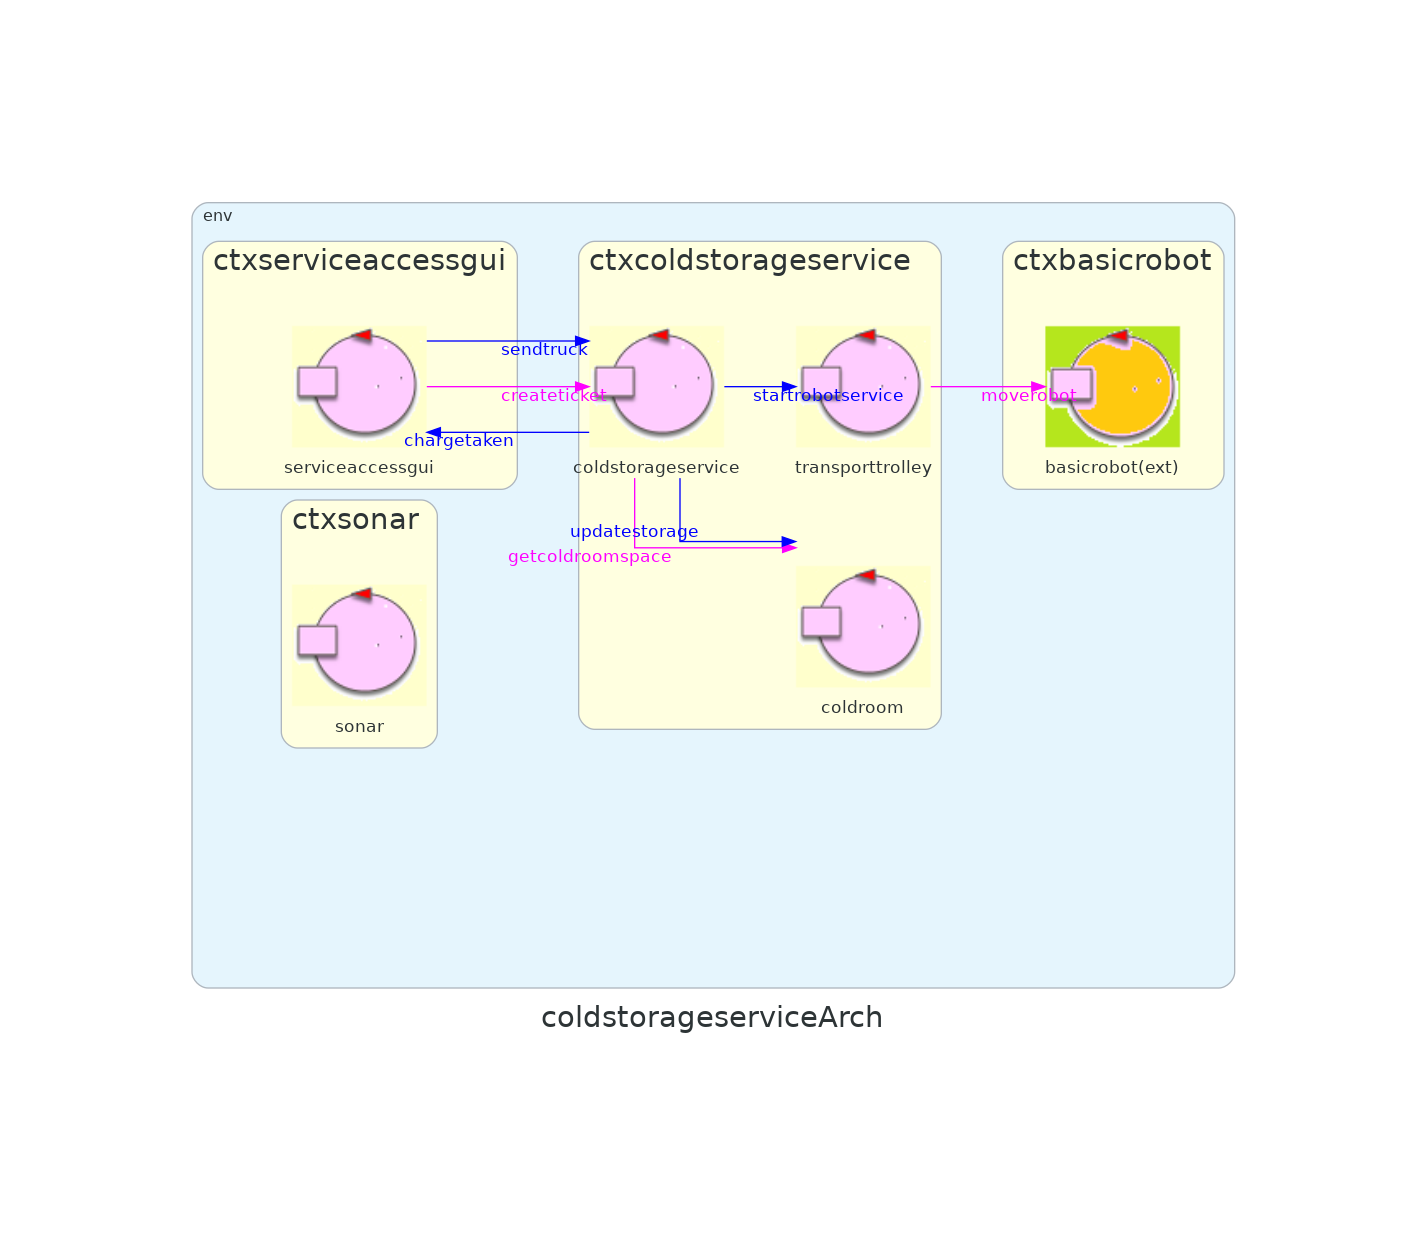
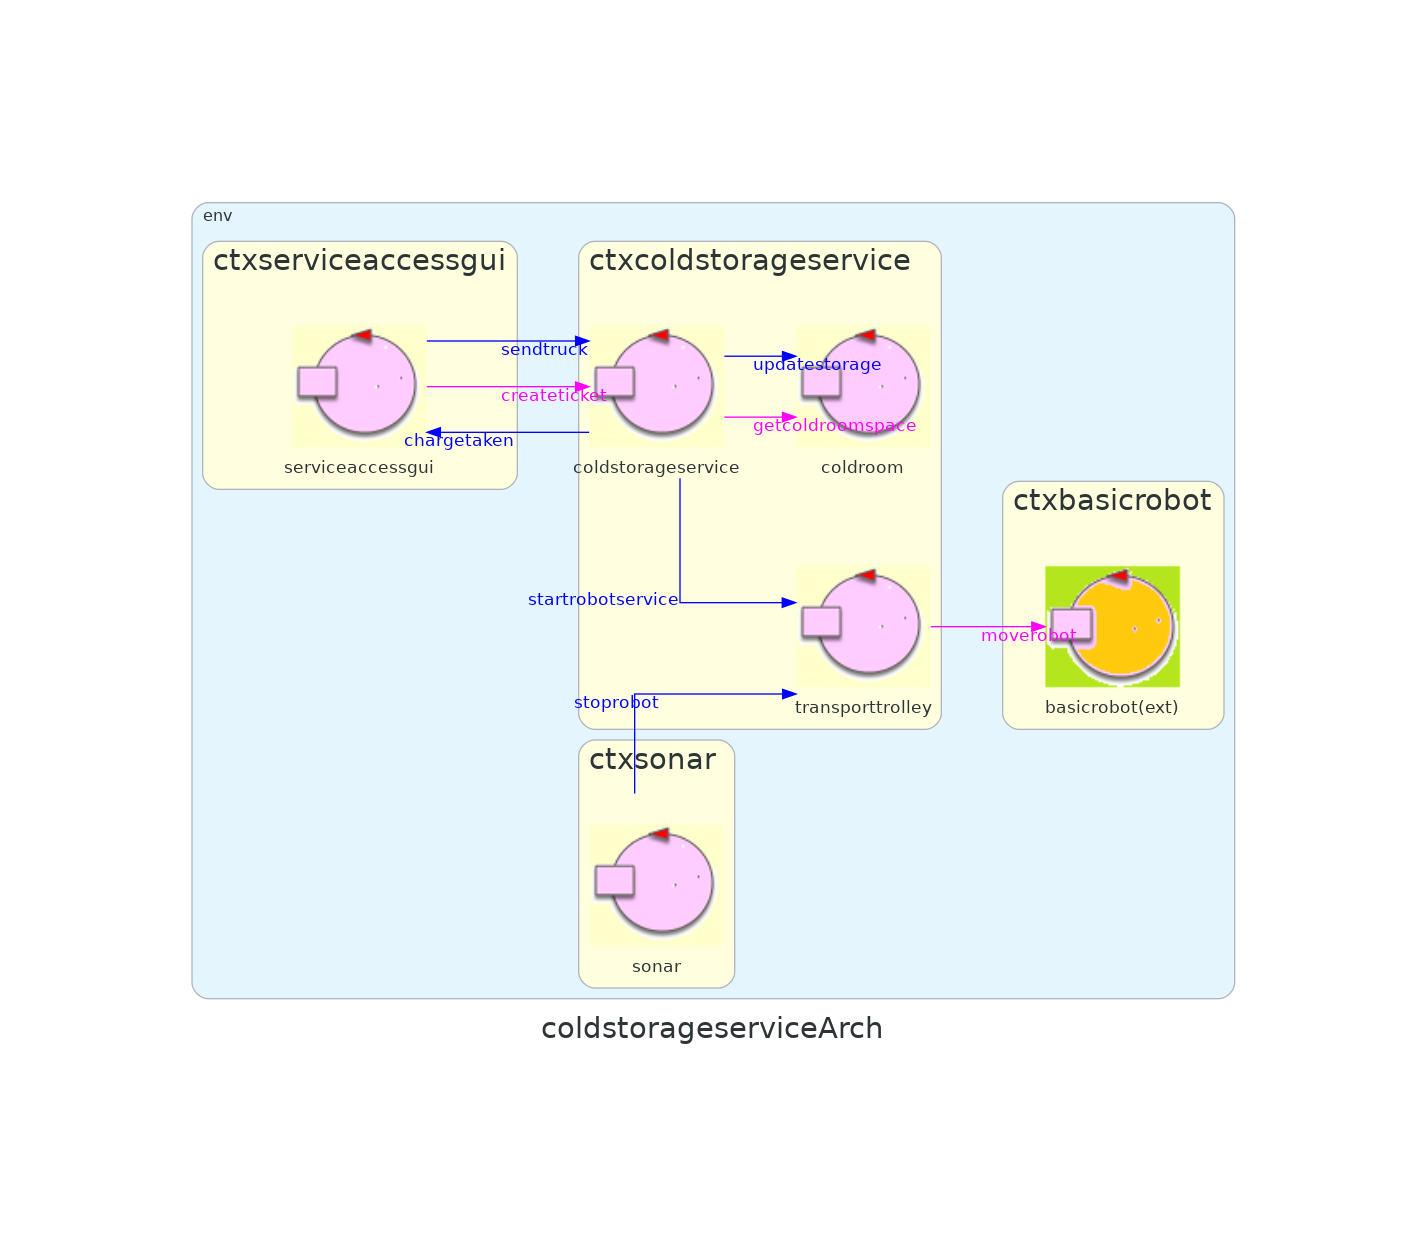
sprint0: add interaction sonar - transport trolley

diff --git a/src/it/unibo/sonar/Sonar.kt b/src/it/unibo/sonar/Sonar.kt
@@ -23,6 +23,7 @@ class Sonar ( name: String, scope: CoroutineScope  ) : ActorBasicFsm( name, scop
 					action { //it:State
 						CommUtils.outcyan("$name in ${currentState.stateName} | $currentMsg | ${Thread.currentThread().getName()} n=${Thread.activeCount()}")
 						 	   
+						forward("stoprobot", "stoprobot(ARG)" ,"transporttrolley" ) 
 						//genTimer( actor, state )
 					}
 					//After Lenzi Aug2002

diff --git a/Arch_coldstorageservice.py b/Arch_coldstorageservice.py
@@ -36,4 +36,5 @@ with Diagram('coldstorageserviceArch', show=False, outformat='png', graph_attr=g
      transporttrolley >> Edge(color='magenta', style='solid', xlabel='moverobot', fontcolor='magenta') >> basicrobot
      serviceaccessgui >> Edge(color='magenta', style='solid', xlabel='createticket', fontcolor='magenta') >> coldstorageservice
      serviceaccessgui >> Edge(color='blue', style='solid', xlabel='sendtruck', fontcolor='blue') >> coldstorageservice
+     sonar >> Edge(color='blue', style='solid', xlabel='stoprobot', fontcolor='blue') >> transporttrolley
 diag

diff --git a/doc/ColdStorageSprint0V2.md b/doc/ColdStorageSprint0V2.md
@@ -66,6 +66,9 @@ Come si legge nei requisiti, le interazioni tra le entità sono
 | ColdStorageService | ServiceAccessGui| Quando la Cold Room ha finito lo spazio disponibile, allora non può essere emesso il ticket | denyticket | il committente ha specificato che l'utente non può rimanere bloccato su questa richeista|
 | ServiceAccessGui | ColdStorageService| the driver uses the ServiceAcessGUI to enter the ticket number and waits until the message **charge taken** | sendtruck | frase letterale dei requisiti |
 | ColdStorageService | ServiceAccessGui| messaggio che permette al truck di presentarsi ad INDOOR | chargetaken | frase letterale dei requisiti; Attenzione non è una richiesta perchè il committente ha specificato che non è possibile ottenere una risposta diversa da chargetaken |
+| TransportTrolley | BasicRobot | messaggio di allarme del BasicRobot. Alla ricezione, il BasicRobot deve fermarsi  | alarm | fa parte dei comandi presenti già nel Basic Robot |
+| Sonar | TransportTrolley | when it measures a distance less that a prefixed value **DLIMT**, the transport trolley must be stopped  | stoprobot | frase letterale dei requisiti |
+
 
 
 
